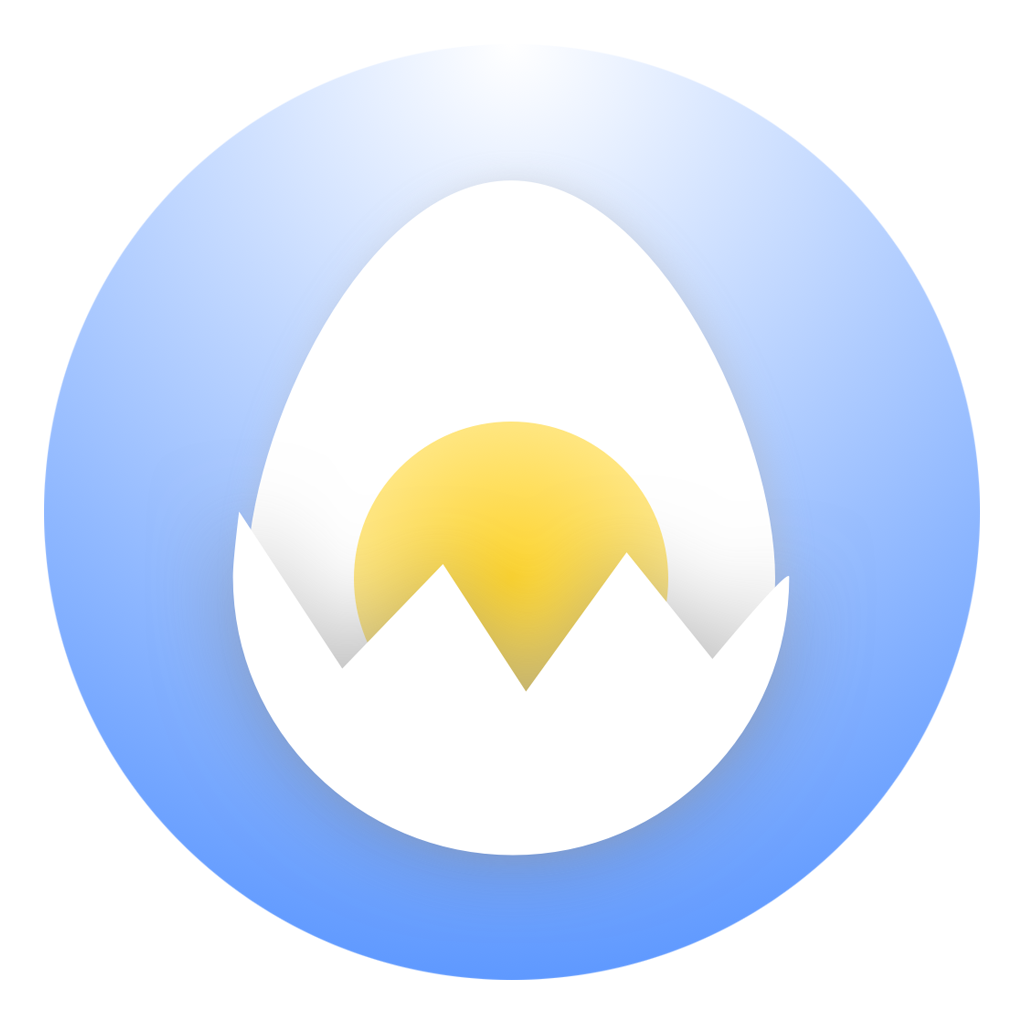
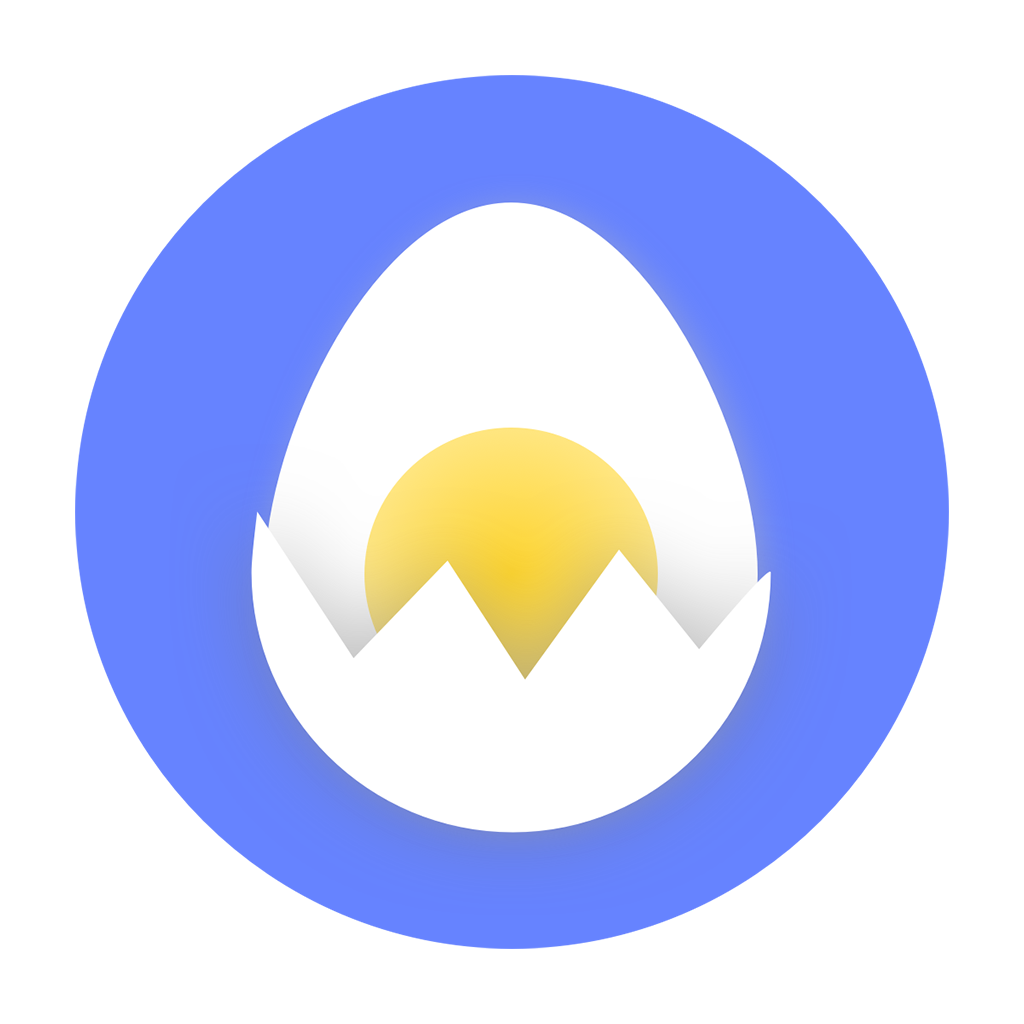
listview优化

diff --git a/lib/views/talkToGpt.dart b/lib/views/talkToGpt.dart
@@ -33,12 +33,13 @@ List<String> messageList = [];
 List<Map> _messageList = [
   {
     "type": "GPT",
-    "msg": "你好",
+    "isHistoryMsg": false,
+    "msg": "你好,可以为你做些什么？",
   },
-  {
-    "type": "USER",
-    "msg": "你好",
-  },
+  // {
+  //   "type": "USER",
+  //   "msg": "你好",
+  // },
 ];
 
 List<MsgModel>? messages;
@@ -72,20 +73,31 @@ Widget _renderItem(CountryModel itemData) {
 //   );
 // }
 
-final ScrollController _scrollController = ScrollController();
-
 class _CupertinoTextFieldExampleState extends State<messageWindow> {
   late TextEditingController _textController;
+  final ScrollController _scrollController = ScrollController();
 
   @override
   void initState() {
     super.initState();
     _textController = TextEditingController(text: '');
+    _scrollController.addListener(() {
+      setState(() {
+        _messageList[0]["isHistoryMsg"] = false;
+      });
+
+      if (_scrollController.position.pixels ==
+          _scrollController.position.maxScrollExtent) {
+        // 到达了列表末尾，可以加载更多数据
+        // ...
+      }
+    });
   }
 
   @override
   void dispose() {
     _textController.dispose();
+    _scrollController.dispose();
     super.dispose();
   }
 
@@ -95,25 +107,36 @@ class _CupertinoTextFieldExampleState extends State<messageWindow> {
     bottomSideH = 0;
   }
 
+  void resetListStatus() {
+    for (var item in _messageList) {
+      item['isHistoryMsg'] = false;
+    }
+  }
+
   void _showBottomSide() {
     bottomSideH = 50.sp;
   }
 
   void _sendMsgToGpt() async {
+    var msgToGpt = _textController.text;
+    resetListStatus();
     if (_textController.text == '') {
       _showBottomSide();
       return;
     } else {
       setState(() {
-        _messageList.insert(0, {"type": "USER", "msg": _textController.text});
+        _messageList.insert(
+            0, {"type": "USER", "msg": msgToGpt, "isHistoryMsg": false});
+        _textController = TextEditingController(text: '');
         dialogVisable = true;
       });
       _showBottomSide();
-      String msgFromGpt = await talkToGpt(_textController.text);
+      String msgFromGpt = await talkToGpt(msgToGpt);
+
       setState(() {
-        _messageList.insert(0, {"type": "GPT", "msg": msgFromGpt});
+        _messageList.insert(
+            0, {"type": "GPT", "msg": msgFromGpt, "isHistoryMsg": true});
         dialogVisable = false;
-        _textController = TextEditingController(text: '');
       });
     }
   }
@@ -137,7 +160,8 @@ class _CupertinoTextFieldExampleState extends State<messageWindow> {
             ChatBubbleClipper1(type: BubbleType.sendBubble),
             context,
             item['msg'],
-            MsgList.indexOf(item)));
+            MsgList.indexOf(item),
+            item["isHistoryMsg"]));
       }
     }
     return lists;
@@ -147,10 +171,10 @@ class _CupertinoTextFieldExampleState extends State<messageWindow> {
   Widget build(BuildContext context) {
     return CupertinoPageScaffold(
         navigationBar: const CupertinoNavigationBar(
-          padding: EdgeInsetsDirectional.fromSTEB(5, 0, 0, 10),
+          padding: EdgeInsetsDirectional.fromSTEB(5, 0, 0, 8),
           leading: Image(
             alignment: Alignment.topCenter,
-            image: AssetImage('assets/images/AppIcon.png'),
+            image: AssetImage('assets/images/AppIcon3.png'),
             height: 60,
             width: 60,
           ),
@@ -184,6 +208,7 @@ class _CupertinoTextFieldExampleState extends State<messageWindow> {
                 // ),
                 child: ListView(
                   reverse: true,
+                  controller: _scrollController,
                   padding: EdgeInsets.all(10.sp),
                   children: msgWidgetList(context, _messageList),
                 ),
@@ -235,8 +260,17 @@ class _CupertinoTextFieldExampleState extends State<messageWindow> {
                               Container(
                                   width: 100,
                                   height: 35.sp,
-                                  child: CupertinoButton.filled(
+                                  decoration: BoxDecoration(
+                                      borderRadius: const BorderRadius.all(
+                                        Radius.circular(25.0),
+                                      ),
+                                      border: Border.all(
+                                        color: Colors.white,
+                                        width: 3.sp,
+                                      )),
+                                  child: CupertinoButton(
                                     alignment: Alignment.center,
+                                    color: CupertinoColors.activeBlue,
                                     padding: EdgeInsets.all(1),
                                     borderRadius: const BorderRadius.all(
                                       Radius.circular(25.0),
@@ -265,13 +299,24 @@ class _CupertinoTextFieldExampleState extends State<messageWindow> {
                           height: MediaQuery.of(context).size.height,
                           width: MediaQuery.of(context).size.width,
                           child: Center(
-                            child: Lottie.asset('assets/status/LoopEggs.json',
-                                // alignment: Alignment(10,0),
-                                width: 100.sp,
-                                height: 200.sp,
-                                repeat: true),
+                            child: Container(
+                                decoration: BoxDecoration(
+                                  borderRadius: BorderRadius.all(
+                                    Radius.circular(15.0),
+                                  ),
+                                  color: Color(0x0E111111),
+                                ),
+                                width: 150.sp,
+                                height: 150.sp,
+                                padding: EdgeInsets.all(25.sp),
+                                child:
+                                    Lottie.asset('assets/status/LoopEggs.json',
+                                        // alignment: Alignment(10,0),
+                                        width: 60.sp,
+                                        height: 60.sp,
+                                        repeat: true)),
                           ),
-                          color: Color.fromARGB(43, 80, 80, 80)),
+                          color: Color(0x74C1CDE1)),
                     )
                   : Container()
             ],

diff --git a/lib/utils/model.dart b/lib/utils/model.dart
@@ -50,7 +50,7 @@ getSenderView(CustomClipper clipper, BuildContext context, String msg) =>
     ChatBubble(
       clipper: ChatBubbleClipper5(type: BubbleType.sendBubble),
       alignment: Alignment.topRight,
-      margin: EdgeInsets.only(top: 20),
+      margin: const EdgeInsets.only(top: 20),
       shadowColor: Colors.transparent,
       backGroundColor: mainBlue,
       child: Container(
@@ -59,7 +59,7 @@ getSenderView(CustomClipper clipper, BuildContext context, String msg) =>
         ),
         child: Text(
           msg,
-          style: TextStyle(
+          style: const TextStyle(
               color: Colors.white,
               fontSize: 18,
               decoration: TextDecoration.none,
@@ -68,36 +68,54 @@ getSenderView(CustomClipper clipper, BuildContext context, String msg) =>
       ),
     );
 
-getReceiverView(CustomClipper clipper, BuildContext context, String msg ,int index) =>
+getReceiverView(CustomClipper clipper, BuildContext context, String msg,
+        int index, bool isHistoryMsg) =>
     ChatBubble(
       clipper: ChatBubbleClipper5(type: BubbleType.receiverBubble),
       backGroundColor: Color.fromARGB(255, 255, 255, 255),
       shadowColor: Colors.transparent,
       margin: EdgeInsets.only(top: 20),
       child: Container(
-          key: ValueKey(index),
-          constraints: BoxConstraints(
-            maxWidth: MediaQuery.of(context).size.width * 0.7,
-          ),
-          child: AnimatedTextKit(animatedTexts: [
-            
-            TypewriterAnimatedText(
-              msg,
-              speed: const Duration(milliseconds: 100),
-              textStyle: const TextStyle(
-                fontSize: 17,
-                color: Colors.black,
-                decoration: TextDecoration.none,
-                  fontWeight: FontWeight.normal
-              ),
-            ),
-          ],
-            totalRepeatCount: 1,
-
-          )
-          // child: Text(
-          //   msg,
-          //   style: TextStyle(color: Colors.black, fontSize: 18,decoration: TextDecoration.none,fontWeight: FontWeight.normal),
-          // ),
-          ),
+        constraints: BoxConstraints(
+          maxWidth: MediaQuery.of(context).size.width * 0.7,
+        ),
+        child: Row(children: [
+          isHistoryMsg
+              ? Container(
+                  key: ValueKey(index),
+                  constraints: BoxConstraints(
+                    maxWidth: MediaQuery.of(context).size.width * 0.7,
+                  ),
+                  child: AnimatedTextKit(
+                    isRepeatingAnimation: false,
+                    animatedTexts: [
+                      TypewriterAnimatedText(
+                        msg,
+                        speed: const Duration(milliseconds: 100),
+                        textStyle: const TextStyle(
+                            fontSize: 16,
+                            color: Colors.black,
+                            decoration: TextDecoration.none,
+                            fontWeight: FontWeight.normal),
+                      ),
+                    ],
+                    totalRepeatCount: 1,
+                  ))
+              : Container(
+                  key: ValueKey(index),
+                  
+                  constraints: BoxConstraints(
+                    maxWidth: MediaQuery.of(context).size.width * 0.7,
+                  ),
+                  child: Text(
+                    msg,
+                    style: const TextStyle(
+                        fontSize: 20,
+                        color: Colors.black,
+                        decoration: TextDecoration.none,
+                        fontWeight: FontWeight.normal),
+                  ),
+                )
+        ]),
+      ),
     );
